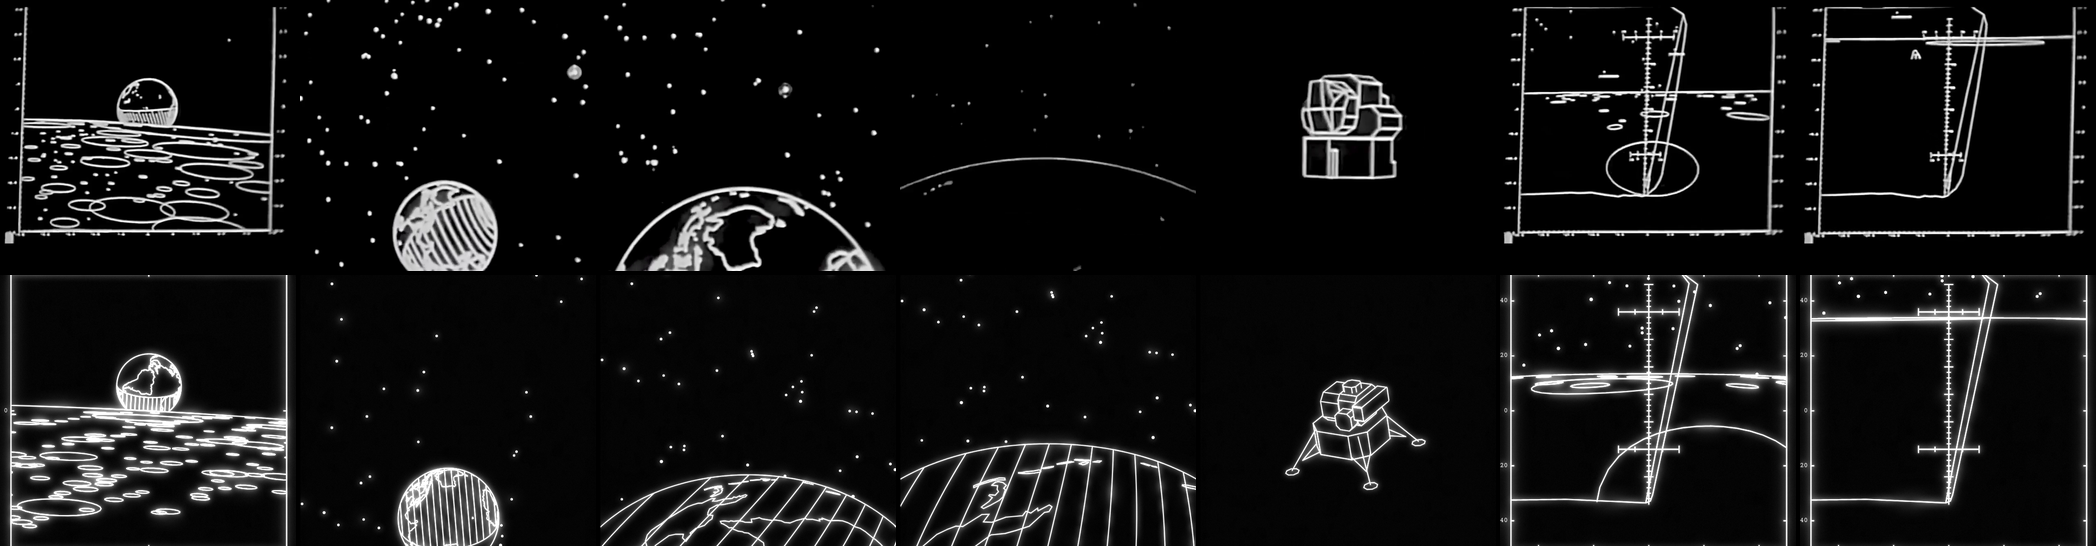
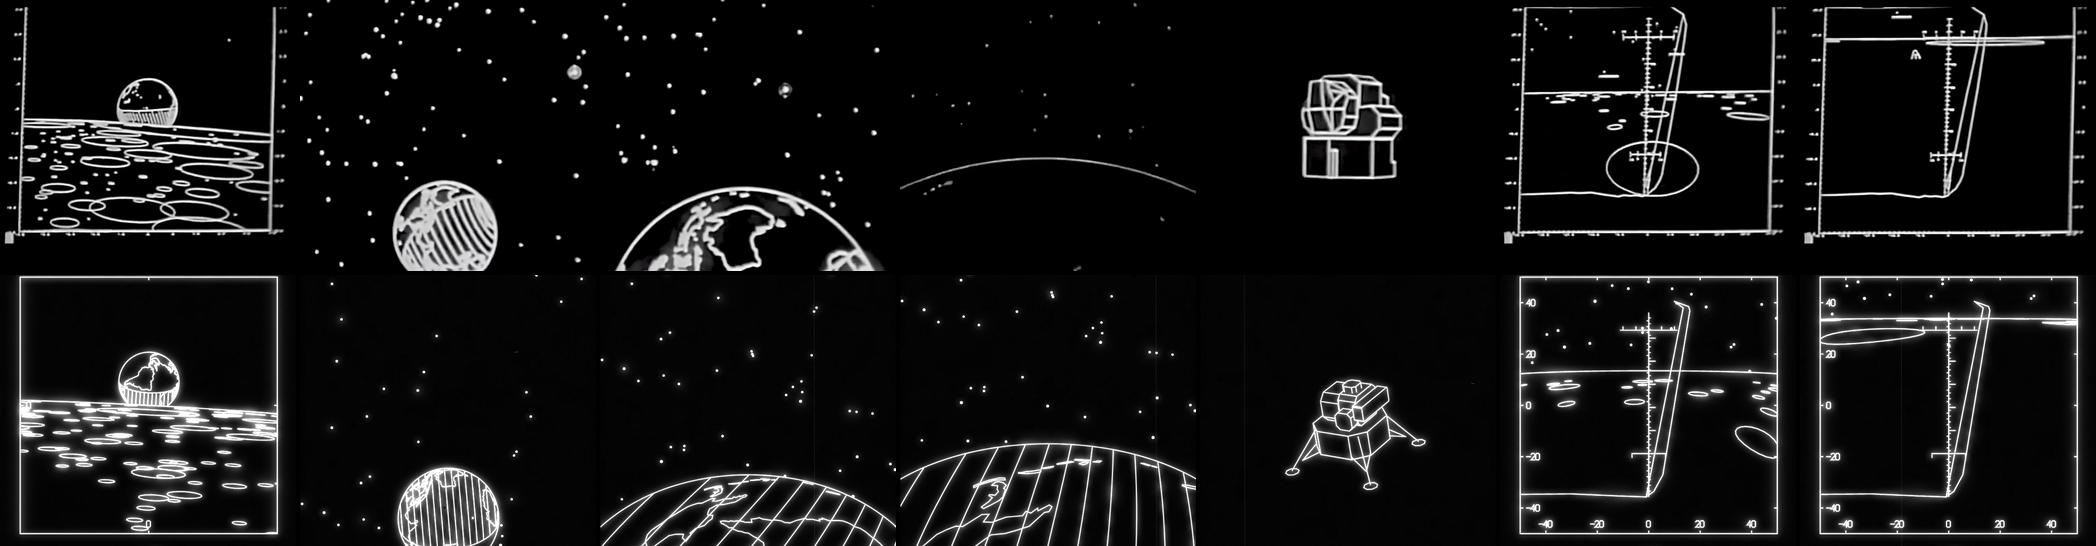
Recorder text sized and placed like the film
Tick numbers are 1% of the field and sit outside the plot box on the
left, right and bottom edges, as in the film frames and the report's plot
pages; names are 1.4%. The page draws text outside the plot clip so the
numbers still pass through bloom, jitter and dust. make sheet retries
headless Chromium hangs.

Changed region(s): [[0.7133, 0.4982, 1.0, 1.0], [0.0, 0.4982, 0.1551, 1.0]]

diff --git a/web/page.template.html b/web/page.template.html
@@ -185,7 +185,7 @@ const ATTRACT = [
   { name: "Earthrise",      scene: 1, dur: 5.9,  fl: 2, roll: -3, p: [30, 68] },
   { name: "Earth approach", scene: 2, dur: 14.6, fl: 0, fov: 60, tte: APPROACH, limb: LIMB },
   { name: "LM pirouette",   scene: 4, dur: 5.5,  fl: 0, p: [0, 45] },
-  { name: "LM descent",     scene: 5, dur: 10.4, fl: 2, p: [0, 200] }
+  { name: "LM descent",     scene: 5, dur: 10.4, fl: 2, p: [-56, 164] }   // film 26 s = GET 369664, 36.4 s = 369884 (scene default 369720)
 ];
 const TOUR_FADE = 0.8;   // seconds of fade at each end of a tour shot
 const TOUR = [
@@ -193,7 +193,7 @@ const TOUR = [
   { name: "Earth approach", scene: 2, dur: 150, fl: 0, fov: 60, tte: APPROACH, limb: LIMB },
   { name: "Earth limb",     scene: 3, dur: 90,  fl: 2, yaw: u => -15 + 30 * u, p: [0, 90] },
   { name: "LM pirouette",   scene: 4, dur: 120, fl: 0, p: [0, 240] },
-  { name: "LM descent",     scene: 5, dur: 115, fl: 2, p: [0, 225] }
+  { name: "LM descent",     scene: 5, dur: 115, fl: 2, p: [-56, 225] }
 ];
 // Live: the scene follows the mission phase from GET.
 const LIVE_MIN = 700, LIVE_MAX = TETP;     // kernel's Earth-orbit scene is valid from about 700 s
@@ -433,6 +433,7 @@ function draw(now) {
     const n = m <= 2 ? 8 : 6, rr = r * 1.1;
     for (let a = 0; a < n; a++) { const th = Math.PI * 2 * a / n - Math.PI / 2; starP.moveTo(x, y); starP.lineTo(x + rr * Math.cos(th), y + rr * Math.sin(th)); }
   }
+  const textP = new Path2D();   // recorder text is not clipped to the plot box: tick numbers sit just outside it
   // Recorder text (kernel tbuf/tchr): tick numbers and names, in the film layer with the vectors.
   if (K.tbuf) {
     const nt = ri("ntxt"), T = new Float64Array(buf(), K.tbuf.value, nt * 4), C = new Int32Array(buf(), K.tchr.value, ri("nchr"));
@@ -440,13 +441,13 @@ function draw(now) {
       let str = ""; for (let q = T[j + 3] - 1; q < C.length && C[q]; q++) str += String.fromCharCode(C[q]);
       const alpha = /[A-Z]/.test(str);
       if (alpha && (!labels || (fullCat && NAMES.NAV.includes(str)))) continue;   // names follow the Labels toggle; FULL catalog has no star names
-      strokeText(solid, str, cx + T[j] * k, cy - T[j + 1] * k, T[j + 2] * k);
+      strokeText(textP, str, cx + T[j] * k, cy - T[j + 1] * k, T[j + 2] * k);
     }
   }
   if (labels) for (let i = 0; i < nl * 4; i += 4) if ((L[i + 2] | 0) === 2) {   // crater names stay page-side, in the same font
     const t = NAMES.CRATER[(L[i + 3] | 0) - 1]; if (!t) continue;
-    const hd = F * 0.024, up = t.toUpperCase();
-    strokeText(solid, up, cx + L[i] * k - up.length * 0.7 * hd * k / 2, cy - L[i + 1] * k + hd * k / 2, hd * k);
+    const hd = F * 0.014, up = t.toUpperCase();
+    strokeText(textP, up, cx + L[i] * k - up.length * 0.7 * hd * k / 2, cy - L[i + 1] * k + hd * k / 2, hd * k);
   }
   const lw = Math.max(1, W / 420) * (bloomOn ? 1.4 : 1);
   for (const [w, a] of bloomOn ? [[lw * 3.4, 0.06 * flick], [lw * 1.7, 0.14 * flick], [lw, 0.98 * flick]] : [[lw * 3.2, 0.10 * flick], [lw, 0.95 * flick]]) {
@@ -458,6 +459,10 @@ function draw(now) {
   ctx.setLineDash([]); ctx.lineCap = "round";
   ctx.strokeStyle = `rgba(255,255,255,${0.98 * flick})`; ctx.lineWidth = lw; ctx.stroke(starP);
   ctx.restore();
+  // recorder text, unclipped, same strokes and glow as the vectors
+  for (const [w, a] of bloomOn ? [[lw * 3.4, 0.06 * flick], [lw * 1.7, 0.14 * flick], [lw, 0.98 * flick]] : [[lw * 3.2, 0.10 * flick], [lw, 0.95 * flick]]) {
+    ctx.strokeStyle = `rgba(255,255,255,${a})`; ctx.lineWidth = w; ctx.setLineDash([]); ctx.lineCap = "round"; ctx.stroke(textP);
+  }
 
   // axis captions (page lettering; tick numbers and names come from the kernel text records)
   if (framed) {
@@ -494,9 +499,9 @@ function present(now, bloomOn) {
   const w = cv.width, h = cv.height;
   if (effJit()) {
     if (now - lastJ >= 1000 / 24) {
-      lastJ = now; const a = Math.random() * 6.2832, m = 0.001 + 0.0015 * Math.random();
+      lastJ = now; const a = Math.random() * 6.2832, m = 0.0005 + 0.00075 * Math.random();
       jx = Math.cos(a) * m; jy = Math.sin(a) * m;
-      jr = Math.random() < 0.2 ? (Math.random() * 2 - 1) * 0.05 * Math.PI / 180 : 0;
+      jr = Math.random() < 0.2 ? (Math.random() * 2 - 1) * 0.025 * Math.PI / 180 : 0;
       jb = 0.94 + 0.06 * Math.random();
     }
   } else { jx = jy = jr = 0; jb = 1; }

diff --git a/tools/film_sheet.py b/tools/film_sheet.py
@@ -39,11 +39,17 @@ try:
         sheet.paste(film.resize((TW, TH), Image.LANCZOS), (i * (TW + G), 0))
         shot = tmp / f"o{t}.png"
         url = f"http://127.0.0.1:{port}/view1108.html?bare&film={t}&jitter=0&bloom=1"
-        subprocess.run([CHROMIUM, "--headless=new", "--no-sandbox", "--hide-scrollbars",
-                        f"--window-size={WIN_W},{WIN_H}", "--virtual-time-budget=4000",
-                        f"--screenshot={shot}", url], stdout=subprocess.DEVNULL, stderr=subprocess.DEVNULL, timeout=120, check=True)
+        for attempt in range(3):     # headless Chromium occasionally hangs; retry
+            try:
+                subprocess.run([CHROMIUM, "--headless=new", "--no-sandbox", "--hide-scrollbars",
+                                f"--window-size={WIN_W},{WIN_H}", "--virtual-time-budget=4000",
+                                f"--screenshot={shot}", url], stdout=subprocess.DEVNULL, stderr=subprocess.DEVNULL, timeout=40, check=True)
+                break
+            except subprocess.TimeoutExpired:
+                if attempt == 2:
+                    raise
         im = Image.open(shot).convert("RGB")
-        box = (x0 + 0.07 * W, 0.12 * W, x0 + 0.93 * W, 0.91 * W) if t in FRAMED else (x0, 0.06 * W, x0 + W, 0.977 * W)
+        box = (x0 + 0.04 * W, 0.11 * W, x0 + 0.96 * W, 0.955 * W) if t in FRAMED else (x0, 0.06 * W, x0 + W, 0.977 * W)
         sheet.paste(im.crop(tuple(int(v) for v in box)).resize((TW, TH), Image.LANCZOS), (i * (TW + G), TH + G))
     OUT.parent.mkdir(parents=True, exist_ok=True)
     sheet.save(OUT, optimize=True)

diff --git a/CLAUDE.md b/CLAUDE.md
@@ -126,10 +126,14 @@ Outputs (written by the kernel):
   recorder's character generator, decided by the kernel. Record k is `x, y, height, start`: plot
   degrees of the first character's lower-left corner, character height in plot degrees, and the
   1-based index in `tchr` of its string, which is ASCII codes ending in 0 (`nchr` codes used,
-  terminators included). Emitted: frame tick numbers on the left and bottom edges when flags
-  bit 1 is set (at the ticks: 5° steps up to a 25° field, 10° up to 60°, else 20°), and names
-  of nav stars, SUN, EARTH and MOON beside their `lbuf` labels when bit 0 is set. Crater names
-  stay in `lbuf` (kind 2) for the page. MAXT = 300, MAXTC = 6000.
+  terminators included). Emitted: frame tick numbers when flags bit 1 is set (at the ticks:
+  5° steps up to a 25° field, 10° up to 60°, else 20°), OUTSIDE the plot box as on the film and
+  report: left edge right-aligned just left of the box, right edge just right of it, bottom
+  edge centred just below it, height 1.0% of the field. So these records have |x| or |y|
+  beyond fov/2; the page must leave a margin to draw them. Names of nav stars, SUN, EARTH and
+  MOON beside their `lbuf` labels when bit 0 is set, height 1.4% of the field. The kernel
+  assumes a character width of 0.7 × height for alignment. Crater names stay in `lbuf`
+  (kind 2) for the page. MAXT = 300, MAXTC = 6000.
 
 Projection: angle-angle about the window's lateral axis, in degrees. For a unit direction with
 components (r, u, b) on the camera's right, up and boresight axes, `X = asin(r)` (angle out of
